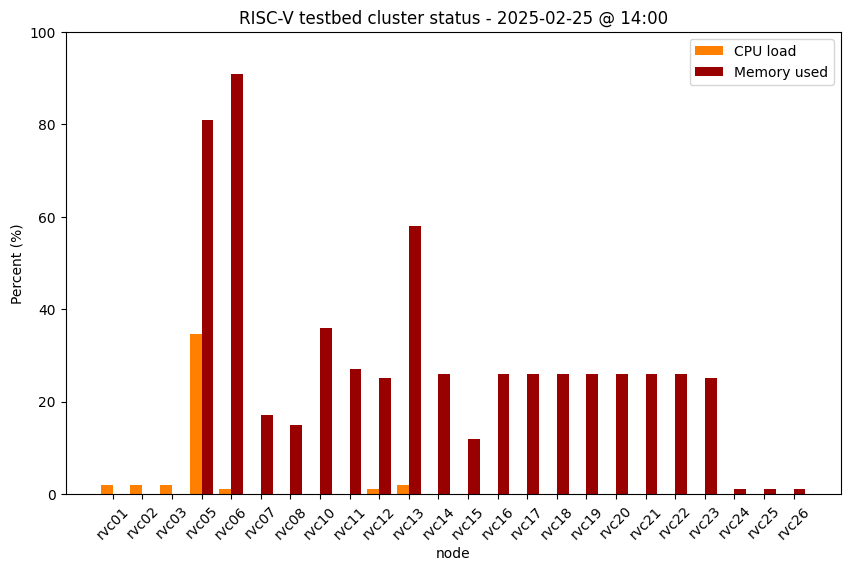
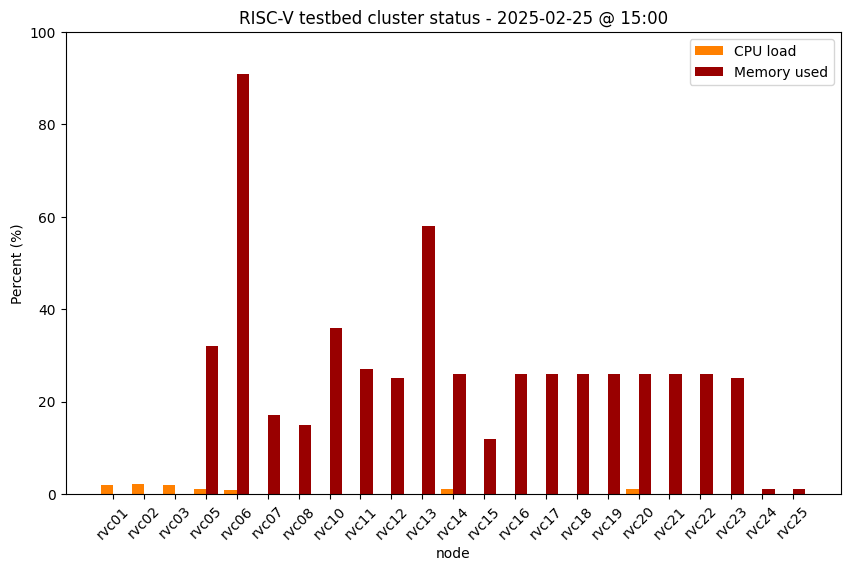
Update cluster status

Changed region(s): [[0.1529, 0.1191, 0.9482, 0.9527], [0.7341, 0.0298, 0.7647, 0.0595]]

diff --git a/status.md b/status.md
@@ -38,5 +38,5 @@ permalink: /status/
 | StarFive VisionFive V2 #13 | rvc23 | 4 | 8GB | <img src="/images/on.png" alt="green light" width="10"/> up |
 | Milk-V Pioneer #1 | rvc24 | 64 | 128GB | <img src="/images/on.png" alt="green light" width="10"/> up |
 | Milk-V Pioneer #2 | rvc25 | 64 | 128GB | <img src="/images/on.png" alt="green light" width="10"/> up |
-| Milk-V Pioneer #3 | rvc26 | 64 | 128GB | <img src="/images/on.png" alt="green light" width="10"/> up |
+| Milk-V Pioneer #3 | rvc26 | 64 | 128GB | <img src="/images/off.png" alt="red light" width="10"/> down |
 
